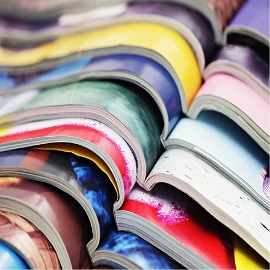
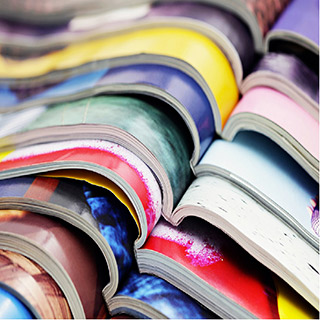
responsive et ajustements sur images

diff --git a/style.css b/style.css
@@ -534,8 +534,10 @@ button {
 
 a[data-lightbox] {
     position: relative;
-    display: block;
     text-align: center;
+    display: flex;
+    flex-direction: row;
+    justify-content: center;
 }
 
 a[data-lightbox]:hover::before {
@@ -899,16 +901,23 @@ h4 {
         overflow-x: hidden;
         position: relative;
     }
+
+    .row{
+        margin: 0;
+    }
     h1,
     h2,
     h3,
     h4,
     h5,
     h6,
-    p,
     #disqus_thread {
         padding-left: 10px!important;
         padding-right: 10px!important;
+    }
+
+    p{
+        padding-bottom: 10px;
     }
     .b-parallax {
         background-attachment: scroll;
@@ -985,7 +994,7 @@ h4 {
     .bloc-xxl,
     .bloc-xl,
     .bloc-lg {
-        padding: 40px 0;
+        padding:0;
     }
     .bloc-sm,
     .bloc-md {
@@ -1040,6 +1049,12 @@ h4 {
         text-align: center;
     }
 
+    .col-sm-12 img{
+        max-width: 120px;
+        margin-top: 10px;
+
+    }
+
 }
 
 @media (max-width: 400px) {
@@ -1047,5 +1062,7 @@ h4 {
         padding-left: 0;
         padding-right: 0;
     }
-    
+     h2{
+         font-size: 16px;
+     }
 }
